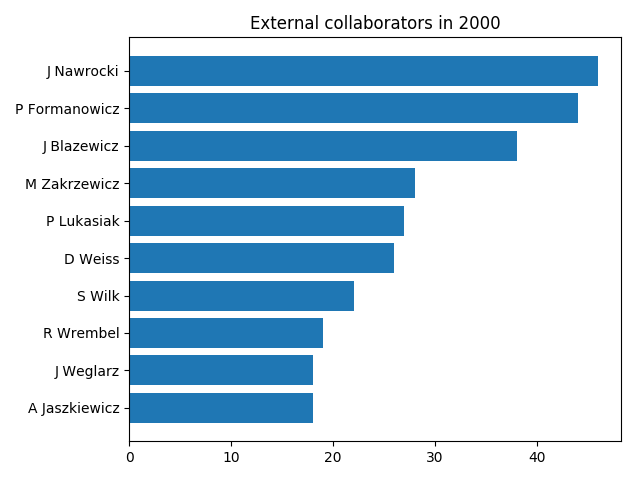
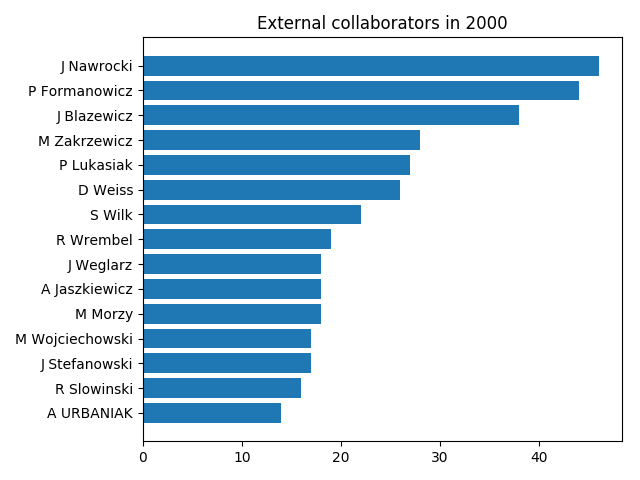
Split functions

diff --git a/makeStatistic.py b/makeStatistic.py
@@ -96,24 +96,42 @@ def pairs_by_decade(decade):
     return final_dict
 
 
-def most_collaborators(decade, count, dir_to):
+def internal_collaborators(decade, count, dir_to):
     authors_internal_dict = dict()
-    authors_internal_pairs_dict = pairs_by_decade(decade)
-    authors_external_dict = dict()
+
     for key, value in collaborators_by_decade(decade).items():
         authors_internal_dict[key] = value['internal']
-        authors_external_dict[key] = value['external']
 
     authors_internal_dict = sorted(authors_internal_dict.items(), key=itemgetter(1))
-    authors_external_dict = sorted(authors_external_dict.items(), key=itemgetter(1))
-    authors_internal_pairs_dict = sorted(authors_internal_pairs_dict.items(), key=itemgetter(1))
 
     draw_plot(authors_internal_dict, 'Internal collaborators in ' + str(decade),
               dir_to + 'internal_collaborators_' + str(decade) + '.png', count)
+
+
+def external_collaborators(decade, count, dir_to):
+    authors_external_dict = dict()
+
+    for key, value in collaborators_by_decade(decade).items():
+        authors_external_dict[key] = value['external']
+
+    authors_external_dict = sorted(authors_external_dict.items(), key=itemgetter(1))
+
     draw_plot(authors_external_dict, 'External collaborators in ' + str(decade),
               dir_to + 'external_collaborators_' + str(decade) + '.png', count)
+
+
+def internal_pairs_collaborators(decade, count, dir_to):
+    authors_internal_pairs_dict = pairs_by_decade(decade)
+    authors_internal_pairs_dict = sorted(authors_internal_pairs_dict.items(), key=itemgetter(1))
+
     draw_plot(authors_internal_pairs_dict, 'Internal collaborators pairs in ' + str(decade),
               dir_to + 'internal_pairs_collaborators_' + str(decade) + '.png', count, True)
 
 
-most_collaborators(2000, 10, './')
+def most_collaborators(decade, count, dir_to):
+    internal_collaborators(decade, count, dir_to)
+    external_collaborators(decade, count, dir_to)
+    internal_pairs_collaborators(decade, count, dir_to)
+
+
+most_collaborators(2000, 15, './')
